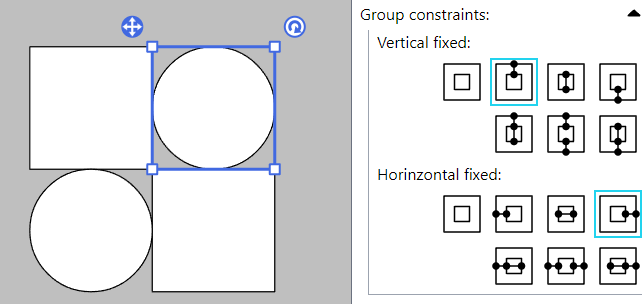
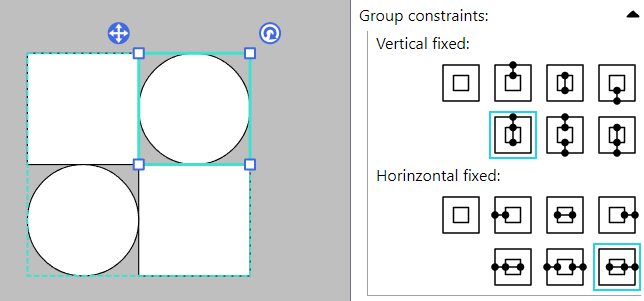
doc: Add doc for group constraints

diff --git a/.vitepress/config.ts b/.vitepress/config.ts
@@ -9,23 +9,15 @@ export default defineConfig({
     // https://vitepress.dev/reference/default-theme-config
     nav: [
       { text: 'Home', link: '/' },
-      { text: 'Examples', link: '/markdown-examples' }
     ],
 
     sidebar: [
       {
         text: 'Shapes',
         items: [
-          { text: 'Properties', link: '/shape-properties' },
+          { text: 'Advanced properties', link: '/shape-advanced-properties' },
         ]
       },
-      {
-        text: 'Examples',
-        items: [
-          { text: 'Markdown Examples', link: '/markdown-examples' },
-          { text: 'Runtime API Examples', link: '/api-examples' }
-        ]
-      }
     ],
 
     socialLinks: [

diff --git a/src/shape-advanced-properties.md b/src/shape-advanced-properties.md
@@ -5,26 +5,37 @@ Alpha property changes opacity of the shape. When it's `1` the shape looks opaqu
 This property can be set in the inspector panel.
 ![Screenshot for alpha](/assets/shape-property-alpha.png)
 
+## Group constraints
+You can set specific behavior to child shapes within the group via group constraint properties.  
+These properties can be set in the inspector panel.
+
+### Example
+When the top-right circle shape has these group constraints,
+![Screenshot for group constraints](/assets/shape-property-group-con-tr.png)
+
+it changes in this way when the parent group shape is resized.
+![Screenshot for group constraints](/assets/shape-property-group-con-tr-resized.png)
+
 ## Clip
 You can clip out or in a group shape via clip properties.  
 These properties can be set in the inspector panel.
 
 ### Clip mode of group shape
 Whether clipping in or out can be switched via "Clip mode" property of the group.
-![Screenshot for clip](/assets/shape-property-clip-mode.png)
+![Screenshot for clip mode](/assets/shape-property-clip-mode.png)
 
 Clipping out looks like:
-![Screenshot for clip](/assets/shape-property-clip-mode-out.png)
+![Screenshot for clip mode out](/assets/shape-property-clip-mode-out.png)
 
 Clipping in looks like:
-![Screenshot for clip](/assets/shape-property-clip-mode-in.png)
+![Screenshot for clip mode in](/assets/shape-property-clip-mode-in.png)
 
 ### Turn child shapes into clipping path
 Turn on `Clip within parent group` of the child shapes, then the shapes work as clipping path within the group.
-![Screenshot for clip](/assets/shape-property-clip-on.png)
+![Screenshot for clip within parent group](/assets/shape-property-clip-on.png)
 
 Once a group shape becomes clipping path, all nested shapes are treated in the same way.
 
 ### Crop outline of child shapes
 You can crop outline that sticking out to the visible area via "Crop outside border".
-![Screenshot for clip](/assets/shape-property-clip-crop-outline.png)
+![Screenshot for crop outline](/assets/shape-property-clip-crop-outline.png)
